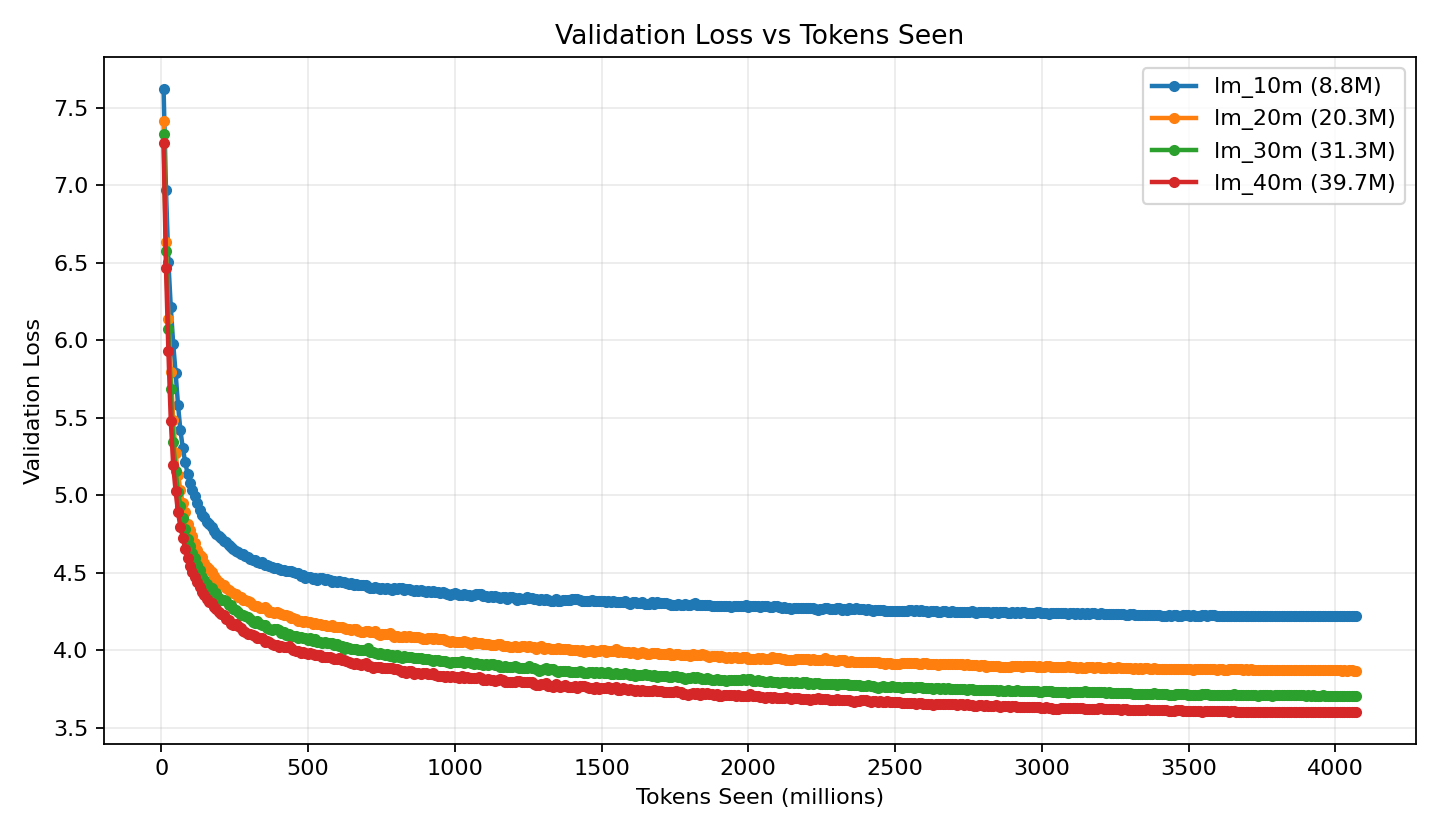
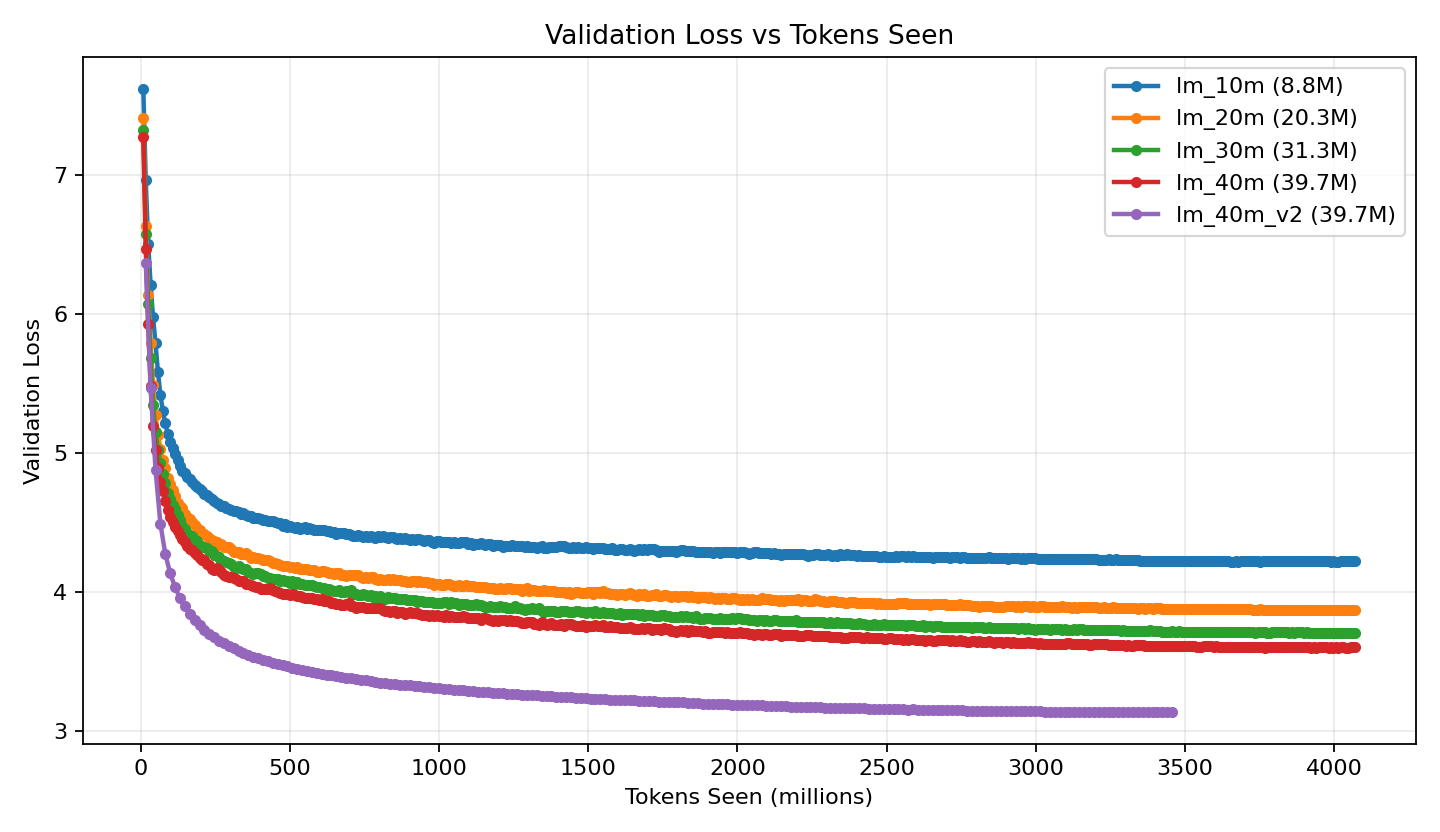
Add lm_40m_v2 results to dashboard

diff --git a/docs/index.html b/docs/index.html
@@ -414,7 +414,7 @@
 
     .bar-row {
       display: grid;
-      grid-template-columns: 62px 1fr 68px;
+      grid-template-columns: 72px 1fr 68px;
       gap: 11px;
       align-items: center;
       font-size: 13px;
@@ -1028,7 +1028,7 @@
       }
 
       .bar-row {
-        grid-template-columns: 54px 1fr 62px;
+        grid-template-columns: 64px 1fr 62px;
       }
     }
   </style>
@@ -1051,20 +1051,20 @@
   <section class="hero">
     <div class="hero-inner">
       <div>
-        <p class="eyebrow">Stage 1 language ablation complete</p>
+        <p class="eyebrow">40M v2 language run complete</p>
         <h1>Tiny decoders, measured like a real experiment.</h1>
         <p class="hero-lead">
-          A controlled study of 9M, 20M, 31M, and 40M parameter decoder-only language models trained from scratch on packed prose. The current winner is clear; the next bottleneck is cleaner data.
+          A controlled study of 9M, 20M, 31M, and 40M parameter decoder-only language models trained from scratch on packed prose. The cleaner 40M v2 corpus is now the objective winner, but samples still show repetition.
         </p>
         <div class="hero-actions">
           <a class="button primary" href="#results">Explore results</a>
           <a class="button" href="https://github.com/ravisankarg/tiny-decoder#readme">Open repository</a>
         </div>
         <div class="hero-mini" aria-label="Project headline metrics">
-          <div class="mini-stat"><span>Best model</span><strong>40M</strong></div>
-          <div class="mini-stat"><span>Token slots</span><strong>4.071B</strong></div>
-          <div class="mini-stat"><span>Best loss</span><strong>3.5988</strong></div>
-          <div class="mini-stat"><span>Best ppl</span><strong>36.55</strong></div>
+          <div class="mini-stat"><span>Best model</span><strong>40M v2</strong></div>
+          <div class="mini-stat"><span>Token slots</span><strong>3.457B</strong></div>
+          <div class="mini-stat"><span>Best loss</span><strong>3.1329</strong></div>
+          <div class="mini-stat"><span>Best ppl</span><strong>22.94</strong></div>
         </div>
       </div>
 
@@ -1078,20 +1078,20 @@
             <button class="model-button" data-model="m10" type="button"><span>smallest</span><strong>10M</strong></button>
             <button class="model-button" data-model="m20" type="button"><span>baseline</span><strong>20M</strong></button>
             <button class="model-button" data-model="m30" type="button"><span>middle</span><strong>30M</strong></button>
-            <button class="model-button active" data-model="m40" type="button"><span>winner</span><strong>40M</strong></button>
+            <button class="model-button active" data-model="m40" type="button"><span>winner</span><strong>40M v2</strong></button>
           </div>
           <div class="live-panel">
             <div class="dial" id="dial">
               <div class="dial-content">
                 <span>validation ppl</span>
-                <strong id="dialValue">36.55</strong>
+                <strong id="dialValue">22.94</strong>
               </div>
             </div>
             <div class="model-facts">
               <div class="fact"><span>parameters</span><strong id="factParams">39.7M</strong></div>
-              <div class="fact"><span>best val loss</span><strong id="factLoss">3.5988</strong></div>
-              <div class="fact"><span>tokens/sec</span><strong id="factSpeed">11,350</strong></div>
-              <div class="fact"><span>capability</span><strong id="factLevel">best baseline</strong></div>
+              <div class="fact"><span>best val loss</span><strong id="factLoss">3.1329</strong></div>
+              <div class="fact"><span>tokens/sec</span><strong id="factSpeed">13,610</strong></div>
+              <div class="fact"><span>capability</span><strong id="factLevel">best loss, looping</strong></div>
             </div>
           </div>
           <div class="bars" aria-label="Perplexity comparison bars">
@@ -1099,6 +1099,7 @@
             <div class="bar-row"><span>20M</span><div class="bar-track"><div class="bar-fill" style="--w: 70%; --c: var(--amber);"></div></div><span>47.83</span></div>
             <div class="bar-row"><span>30M</span><div class="bar-track"><div class="bar-fill" style="--w: 60%; --c: var(--blue);"></div></div><span>40.64</span></div>
             <div class="bar-row"><span>40M</span><div class="bar-track"><div class="bar-fill" style="--w: 54%; --c: var(--green);"></div></div><span>36.55</span></div>
+            <div class="bar-row"><span>40M v2</span><div class="bar-track"><div class="bar-fill" style="--w: 34%; --c: var(--teal);"></div></div><span>22.94</span></div>
           </div>
         </div>
       </aside>
@@ -1211,8 +1212,8 @@
         </article>
 
         <article class="mix-card">
-          <h3>Next corpus: <code>lm_prose_v2</code></h3>
-          <p>The new script builds a cleaner 40M-only corpus with broader prose and a hard cap on app-store language.</p>
+          <h3>Latest corpus: <code>lm_prose_v2</code></h3>
+          <p>The v2 script built a cleaner 40M-only corpus with broader prose and a hard cap on app-store language.</p>
           <div class="mix-bar" aria-label="lm_prose_v2 source mix">
             <div class="mix-segment" style="--w: 45%; --c: var(--teal);"></div>
             <div class="mix-segment" style="--w: 25%; --c: var(--green);"></div>
@@ -1231,7 +1232,8 @@
           </div>
           <div class="chips" style="margin-top: 18px;">
             <span class="chip"><code>scripts/prepare_lm_prose_v2.sh</code></span>
-            <span class="chip">target 1.2B approximate source tokens</span>
+            <span class="chip">4,507,560 train chunks</span>
+            <span class="chip">237,556 val chunks</span>
             <span class="chip">packed 256-token chunks</span>
           </div>
         </article>
@@ -1241,7 +1243,7 @@
     <section id="results">
       <div class="section-head">
         <h2>Results Dashboard</h2>
-        <p>The ranking is clean: larger models reached lower validation loss and lower perplexity under the same setup.</p>
+        <p>The original size ranking was clean, and the cleaner 40M v2 data run made the largest jump in validation quality.</p>
       </div>
       <div class="matrix">
         <div>
@@ -1260,16 +1262,17 @@
               <tr><td><span class="badge b20">20M</span></td><td class="num">20.3M</td><td class="num">3.8677</td><td class="num">47.83</td><td class="num">21,438</td></tr>
               <tr><td><span class="badge b30">30M</span></td><td class="num">31.3M</td><td class="num">3.7047</td><td class="num">40.62</td><td class="num">13,764</td></tr>
               <tr><td><span class="badge b40">40M</span></td><td class="num">39.7M</td><td class="num">3.6010</td><td class="num">36.55</td><td class="num">11,350</td></tr>
+              <tr><td><span class="badge b40">40M v2</span></td><td class="num">39.7M</td><td class="num">3.1331</td><td class="num">22.94</td><td class="num">13,610</td></tr>
             </tbody>
           </table>
         </div>
         <aside class="panel">
           <h3>Interpretation</h3>
-          <p><code>lm_40m</code> is the best current quality point. It is slower, but the validation and perplexity gap is meaningful enough to make it the right next model to improve with better data.</p>
+          <p><code>lm_40m_v2</code> is the best objective checkpoint so far: same 39.7M parameter config, cleaner <code>lm_prose_v2</code> data, and a 36.9 percent perplexity reduction versus the 2026-06-15 <code>lm_40m</code> baseline.</p>
           <div class="chips">
-            <span class="chip">best objective metrics</span>
-            <span class="chip">best samples</span>
-            <span class="chip">not task-ready</span>
+            <span class="chip">best validation loss</span>
+            <span class="chip">cleaner corpus helped</span>
+            <span class="chip">still loops</span>
           </div>
         </aside>
       </div>
@@ -1285,14 +1288,14 @@
           <img src="plots/lm_val_loss_vs_tokens.png" alt="Validation loss versus tokens seen">
           <figcaption>
             <h3>Loss by tokens seen</h3>
-            <p>The 40M curve stays below the smaller models after the same cumulative token budget.</p>
+            <p>The v2 curve drops below every earlier run despite seeing fewer token slots than the original ablation runs.</p>
           </figcaption>
         </figure>
         <figure class="plot-card">
           <img src="plots/lm_val_loss_vs_epoch.png" alt="Validation loss versus epoch">
           <figcaption>
             <h3>Loss by epoch</h3>
-            <p>All models improve, but larger capacity consistently wins by held-out validation loss.</p>
+            <p>The cleaner 40M v2 run reaches the lowest held-out loss by the end of epoch 3.</p>
           </figcaption>
         </figure>
       </div>
@@ -1301,12 +1304,12 @@
     <section id="stand">
       <div class="section-head">
         <h2>Where We Stand</h2>
-        <p>The experiment is now a useful baseline, not a finished decoder.</p>
+        <p>The experiment now has a better objective baseline, but not a finished decoder.</p>
       </div>
       <div class="status-grid">
         <article class="panel">
           <h3>Current capability level</h3>
-          <p>The model can produce readable English continuations, but the language is still shallow, generic, repetitive, and biased toward app-description style. Task finetuning should still wait.</p>
+          <p><code>lm_40m_v2</code> produces readable English and beats the older 40M run on validation loss, but greedy continuations still collapse into repeated phrases. Task finetuning should still wait.</p>
           <div class="chips">
             <span class="chip">readable</span>
             <span class="chip">generic</span>
@@ -1315,12 +1318,12 @@
           </div>
         </article>
         <div class="terminal" aria-label="Representative generated text">
-          <div class="terminal-head"><span>fixed prompt samples</span><span>lm_40m</span></div>
-          <pre>The best place to visit in => the world. The best place to visit is where you can easily find and view more than one hundred people who can be visiting.
+          <div class="terminal-head"><span>fixed prompt samples</span><span>lm_40m_v2</span></div>
+          <pre>The best place to visit in => the world is the Mediterranean Sea. The Mediterranean Sea is a great place to visit in the world...
 
-A smartphone camera app can => be installed by using its iPhone or iPad. A mobile phone is a device that uses an iOS device...
+A smartphone camera app can => be used to monitor the temperature of the air. The camera can be used to monitor the temperature of the air...
 
-Machine learning is useful because => you are not only an engineer, but also a computer scientist. Features: - Easy to use, easy to use...</pre>
+Machine learning is useful because => it is a powerful tool for learning. It is a powerful tool for learning...</pre>
         </div>
       </div>
     </section>
@@ -1331,25 +1334,25 @@ Machine learning is useful because => you are not only an engineer, but also a c
         <p>The data pipeline is working; the main bottleneck has moved to corpus quality and balance.</p>
       </div>
       <div class="lesson-grid">
-        <article class="lesson"><h3>Capacity matters</h3><p>The 40M model has the best validation loss and about 46 percent lower final perplexity than the 10M model.</p></article>
+        <article class="lesson"><h3>Data matters</h3><p>The 40M v2 run cut best perplexity from 36.55 to 22.94 versus the older 40M baseline.</p></article>
         <article class="lesson"><h3>Tokens are not enough</h3><p>The 10M model saw the most tokens per parameter and still had the worst validation loss.</p></article>
         <article class="lesson"><h3>Loss needs samples</h3><p>The best loss still produced shallow continuations, so fixed prompt checks remain necessary.</p></article>
-        <article class="lesson"><h3>Data is next</h3><p>More epochs on the same corpus will likely strengthen the same generic style bias.</p></article>
+        <article class="lesson"><h3>Decoding is next</h3><p>Greedy samples still repeat, so fixed decoding checks and stronger sampling tests are needed before task training.</p></article>
       </div>
     </section>
 
     <section id="next">
       <div class="next-panel">
         <div class="next-summary">
-          <h2>Next: improve the data, not the architecture.</h2>
-          <p>Continue with <code>lm_40m</code>, but train it on a cleaner and broader <code>lm_prose_v2</code> corpus before touching task finetuning.</p>
+          <h2>Next: fix repetition before task training.</h2>
+          <p>Keep <code>lm_40m_v2</code> as the new base checkpoint, but treat it as a better LM baseline rather than a task-ready model.</p>
         </div>
         <div class="steps">
-          <div class="step"><strong>1</strong><span>Build <code>lm_prose_v2</code> with less repeated app-store and feature-list text.</span></div>
-          <div class="step"><strong>2</strong><span>Add broader high-quality prose while keeping packed 256-token chunks.</span></div>
-          <div class="step"><strong>3</strong><span>Train <code>lm_40m</code> first and compare against the 2026-06-15 baseline.</span></div>
-          <div class="step"><strong>4</strong><span>Only run 20M or 30M controls after the new corpus improves 40M samples.</span></div>
-          <div class="step"><strong>5</strong><span>Resume OCR/instruction/autocomplete later with a continued LM-data mix.</span></div>
+          <div class="step"><strong>1</strong><span>Evaluate more prompts with greedy, top-k, and nucleus sampling to separate model repetition from decoding repetition.</span></div>
+          <div class="step"><strong>2</strong><span>Inspect <code>lm_prose_v2</code> for repeated boilerplate that may still be teaching phrase loops.</span></div>
+          <div class="step"><strong>3</strong><span>Keep the 40M v2 checkpoint as the baseline for any next corpus cleanup.</span></div>
+          <div class="step"><strong>4</strong><span>Only run task finetuning after fixed prompt samples stop collapsing into repeated clauses.</span></div>
+          <div class="step"><strong>5</strong><span>When task training resumes, mix continued LM data to reduce forgetting and style collapse.</span></div>
         </div>
       </div>
     </section>
@@ -1357,7 +1360,7 @@ Machine learning is useful because => you are not only an engineer, but also a c
 
   <footer>
     <div class="footer-inner">
-      Generated from local training artifacts in <code>std_gallery</code>. Project status captured on 2026-06-15.
+      Generated from local training artifacts in <code>std_gallery</code>. Project status captured on 2026-06-19.
     </div>
   </footer>
 
@@ -1366,7 +1369,7 @@ Machine learning is useful because => you are not only an engineer, but also a c
       m10: { params: "8.8M", loss: "4.2178", ppl: "67.88", speed: "40,208", level: "very weak", deg: "100deg", color: "#c7472f" },
       m20: { params: "20.3M", loss: "3.8677", ppl: "47.83", speed: "21,438", level: "weak baseline", deg: "70deg", color: "#b66a00" },
       m30: { params: "31.3M", loss: "3.7042", ppl: "40.62", speed: "13,764", level: "early base LM", deg: "60deg", color: "#2f6fb1" },
-      m40: { params: "39.7M", loss: "3.5988", ppl: "36.55", speed: "11,350", level: "best baseline", deg: "54deg", color: "#27854e" }
+      m40: { params: "39.7M", loss: "3.1329", ppl: "22.94", speed: "13,610", level: "best loss, looping", deg: "34deg", color: "#008c8c" }
     };
 
     const dial = document.getElementById("dial");

diff --git a/README.md b/README.md
@@ -4,7 +4,7 @@ This repo is an ablation study for tiny decoder-only language models. The experi
 
 The main goal is not to train a large general assistant. The goal is to learn how far very small decoders can go when the data pipeline, objective, tokenizer, model size, and finetuning stages are designed carefully.
 
-The current study compares approximately 9M, 20M, 31M, and 40M parameter decoder configs on the same base LM corpus. Once the base LM behavior is coherent, later iterations will add narrow task skills such as OCR-style field extraction, instruction parsing, and autocomplete.
+The current study compares approximately 9M, 20M, 31M, and 40M parameter decoder configs on the same base LM corpus, then tests whether a cleaner 40M-only corpus improves the strongest config. Once the base LM behavior is coherent, later iterations will add narrow task skills such as OCR-style field extraction, instruction parsing, and autocomplete.
 
 ## Ablation Study Goal
 
@@ -163,7 +163,7 @@ The packed LM dataset is built from `data/corpus.txt` into:
 
 The improved prose LM path also adds app-description sources so the base model sees smartphone and application-domain language before task finetuning. Current public sources include Google Play app metadata from MobileRec and Mac App Store description text. These are used as prose documents, not as scraped live store pages.
 
-The current full model-size comparison processed about 4.071B cumulative training token slots over three epochs. This is large enough to show a clear size trend, but the generated text is still shallow and repetitive, so the result should be treated as a useful base-LM baseline rather than a finished language model.
+The full model-size comparison processed about 4.071B cumulative training token slots over three epochs. The follow-up `lm_40m_v2` run processed 3.457B token slots on `lm_prose_v2` and reached much lower validation loss, but the generated text is still repetitive, so the result should be treated as a better base-LM baseline rather than a finished language model.
 
 The expanded prose corpus can stream additional public text from:
 
@@ -230,6 +230,7 @@ Common training setup:
 | `lm_20m` | `model_config.json` | 8 | 384 | 6 | 1,536 | 20,340,480 | 16 | 4 | 2.8819 | 3.8677 | 47.83 |
 | `lm_30m` | `model_config_30m.json` | 10 | 448 | 7 | 1,792 | 31,311,616 | 8 | 8 | 2.7437 | 3.7047 | 40.64 |
 | `lm_40m` | `model_config_40m.json` | 10 | 512 | 8 | 2,048 | 39,716,864 | 4 | 16 | 2.6767 | 3.6010 | 36.63 |
+| `lm_40m_v2` | `model_config_40m.json` | 10 | 512 | 8 | 2,048 | 39,716,864 | 16 | 8 | 3.1276 | 3.1331 | 22.95 |
 
 Best checkpoint metrics:
 
@@ -239,17 +240,19 @@ Best checkpoint metrics:
 | `lm_20m` | 248,500 | 3.8677 | 47.83 | 248,500 | 200.16 | 3,165.3 min | 21,438 |
 | `lm_30m` | 248,000 | 3.7042 | 40.62 | 248,500 | 130.03 | 4,930.0 min | 13,764 |
 | `lm_40m` | 247,000 | 3.5988 | 36.55 | 248,500 | 102.51 | 5,978.6 min | 11,350 |
+| `lm_40m_v2` | 105,000 | 3.1329 | 22.94 | 105,500 | 87.04 | 4,233.4 min | 13,610 |
 
 ### Language Capability Level
 
-The strongest objective metric is validation loss on held-out packed prose. By that metric, model size helped consistently: `lm_40m` is best, then `lm_30m`, then `lm_20m`, then `lm_10m`.
+The strongest objective metric is validation loss on held-out packed prose. In the original same-corpus ablation, model size helped consistently: `lm_40m` beat `lm_30m`, `lm_20m`, and `lm_10m`. The follow-up `lm_40m_v2` run on `lm_prose_v2` is now the best objective checkpoint overall, with best validation loss `3.1329` and best perplexity `22.94`.
 
 Qualitative fixed-seed continuation checks on 2026-06-15 showed:
 
 - `lm_10m`: can form English sentences, but loops simple phrases and generic words. Capability level: very weak base LM.
 - `lm_20m`: more sentence-like and sometimes topical, but still confuses domains and invents odd facts. Capability level: weak but usable for pipeline checks.
 - `lm_30m`: better grammar and topical consistency, but still repeats app-description style and shallow clauses. Capability level: early base LM.
-- `lm_40m`: best validation loss and most readable continuations, but still repetitive, generic, and not reliable. Capability level: best current base LM, not ready for task finetuning as a language backbone.
+- `lm_40m`: best original same-corpus validation loss and most readable continuations, but still repetitive, generic, and not reliable.
+- `lm_40m_v2`: much better validation loss on the cleaner `lm_prose_v2` corpus, but greedy continuations still collapse into repeated phrases. Capability level: best current base LM, still not ready for task finetuning.
 
 Representative samples from `lm_40m`:
 
@@ -259,13 +262,22 @@ A smartphone camera app can => be installed by using its iPhone or iPad. A mobil
 Machine learning is useful because => you are not only an engineer, but also a computer scientist. Features: - Easy to use, easy to use...
 ```
 
+Representative samples from `lm_40m_v2` on 2026-06-19:
+
+```text
+The best place to visit in => the world is the Mediterranean Sea. The Mediterranean Sea is a great place to visit in the world...
+A smartphone camera app can => be used to monitor the temperature of the air. The camera can be used to monitor the temperature of the air...
+Machine learning is useful because => it is a powerful tool for learning. It is a powerful tool for learning...
+```
+
 ### Learnings
 
-- Capacity matters in this setup. The 40M model has the best final validation loss and about 46 percent lower perplexity than the 10M model.
+- Capacity matters in this setup. The original 40M model had the best same-corpus validation loss and about 46 percent lower perplexity than the 10M model.
+- Data quality matters at least as much now. The 40M v2 run cut best perplexity from `36.55` to `22.94` versus the older 40M baseline, a 36.9 percent reduction.
 - The larger models are much slower, but the quality gain is real. `lm_40m` ran at about 11.3k tokens/sec versus about 40.2k tokens/sec for `lm_10m`.
 - The 10M model received the most tokens per parameter, but it still had the worst validation loss. More tokens per parameter did not overcome limited capacity.
 - The current dataset teaches fluent surface text but appears too repetitive and app-description-heavy. Generated text often falls into generic feature-list language.
-- Validation loss alone is not enough. The 40M model has the best loss, but samples still show repetition and weak semantics.
+- Validation loss alone is not enough. The 40M v2 model has the best loss, but samples still show repetition and weak semantics.
 
 ### Mistakes To Avoid Repeating
 
@@ -276,16 +288,15 @@ Machine learning is useful because => you are not only an engineer, but also a c
 
 ### Recommendation
 
-Continue with the 40M config, but do not simply repeat the same 40M training on the same `lm_prose` data. The best next experiment is a 40M Stage 1 run on cleaner and broader packed prose:
+Use `lm_40m_v2` as the new base-LM baseline, but do not start OCR/instruction/autocomplete finetuning yet:
 
-1. Build a new `lm_prose_v2` corpus with less repeated app-store language and more high-quality general text.
-2. Keep 256 context for the next controlled run so it remains comparable.
-3. Train `lm_40m` first, because it is the best current quality point.
-4. Add a short 20M or 30M control only after the 40M v2 run shows better samples.
-5. Track both validation loss/perplexity and a fixed qualitative prompt set.
-6. Only begin task finetuning after the 40M base model can continue simple prompts without obvious loops.
+1. Evaluate more prompts with greedy, top-k, and nucleus sampling to separate model repetition from decoding repetition.
+2. Inspect `lm_prose_v2` for repeated boilerplate that may still be teaching phrase loops.
+3. Keep 256 context for the next controlled cleanup run so it remains comparable.
+4. Track both validation loss/perplexity and a fixed qualitative prompt set.
+5. Only begin task finetuning after the 40M base model can continue simple prompts without obvious loops.
 
-The practical answer: yes, continue 40M training, but with new data and cleaner corpus balance, not more epochs on the same corpus. If the goal is language capability, data quality and diversity are now the next bottleneck more than architecture.
+The practical answer: `lm_prose_v2` helped a lot objectively, but the model is still a base-LM checkpoint, not a task-ready assistant backbone.
 
 Plots can be regenerated from local checkpoint CSVs with:
 
@@ -306,13 +317,12 @@ If the base LM still repeats tokens or produces nonsense, task training should n
 
 ## Next Planned Iterations
 
-After the 2026-06-15 Stage 1 ablation, the next work should improve the 40M base LM before any task-specific training:
+After the 2026-06-19 `lm_40m_v2` result, the next work should reduce repetition before any task-specific training:
 
-1. Build `lm_prose_v2` with cleaner, broader packed prose and less repetitive app-description text.
-2. Train `lm_40m` on the new data first, using the same 256-token context and fixed prompt evals.
-3. Compare validation loss, perplexity, and qualitative continuations against the 2026-06-15 `lm_40m` baseline.
-4. Only if the base LM improves, run a smaller 20M or 30M control to check whether the data improvement generalizes.
-5. Add instruction/OCR/autocomplete training later with a small learning rate and a continued LM-data mix to reduce forgetting.
+1. Run a broader fixed-prompt eval with multiple decoding modes.
+2. Clean remaining repeated boilerplate from `lm_prose_v2` if the prompt eval points back to corpus style.
+3. Keep `lm_40m_v2` as the baseline checkpoint for any next corpus cleanup.
+4. Add instruction/OCR/autocomplete training later with a small learning rate and a continued LM-data mix to reduce forgetting.
 
 ## Key Lesson
 
